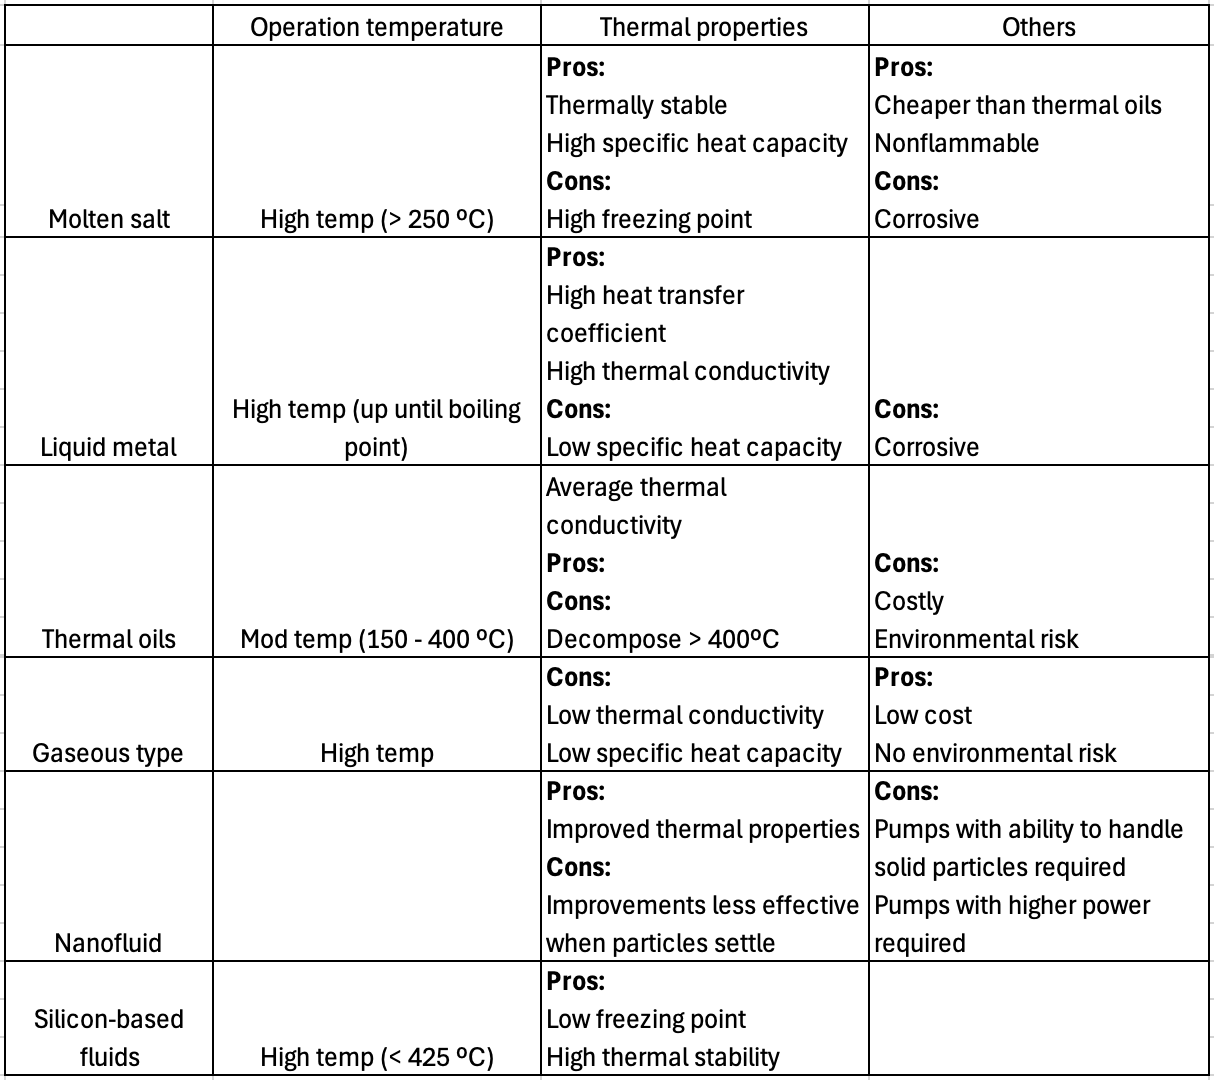
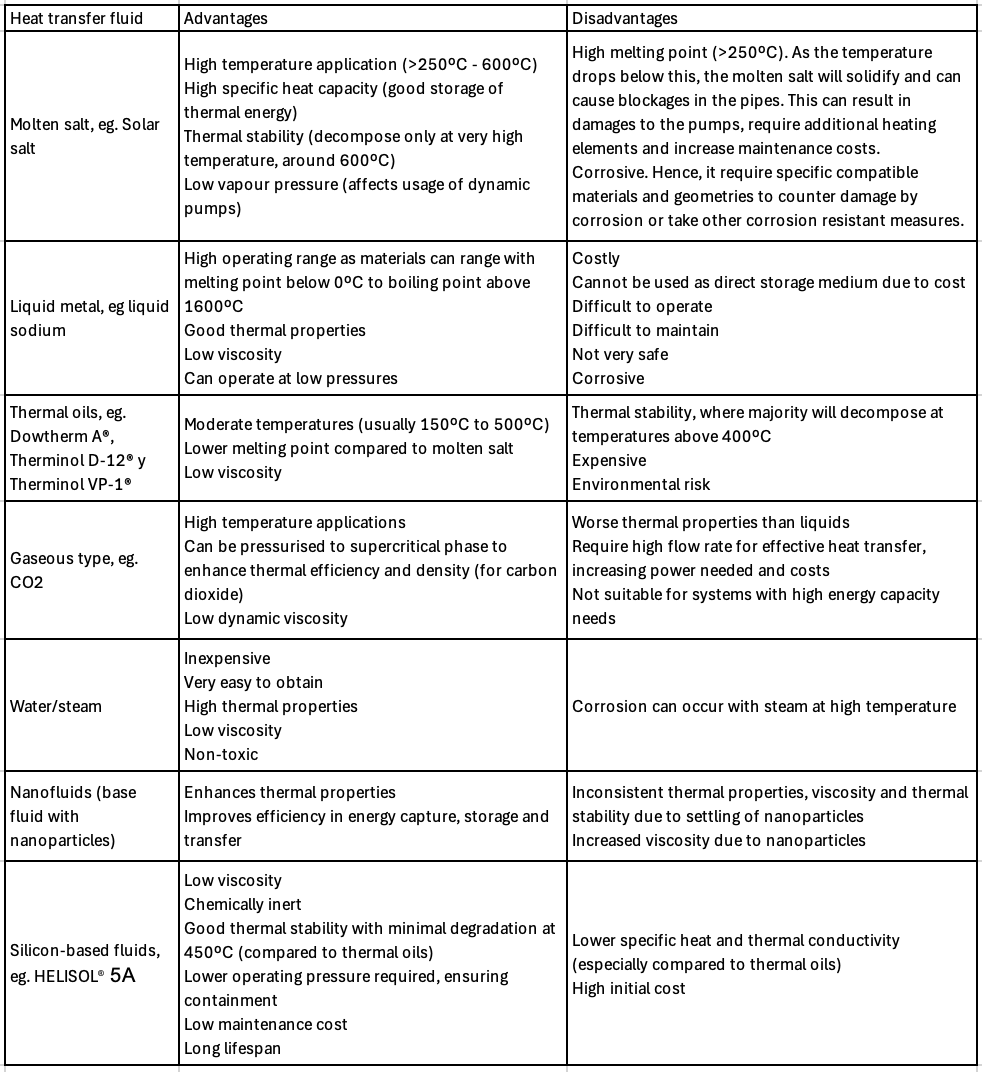
tt

Changed region(s): [[0.0, 0.0, 1.0, 1.0]]

diff --git a/thermaltransmissionsubs.html b/thermaltransmissionsubs.html
@@ -154,7 +154,7 @@
           The common HTFs are molten salt and thermal oils, in high-temperature and moderate-temperature CSPs respectively.[29] Nanofluids and silicon-based fluids are new emerging materials. The comparison of each HTF are summarised below.
         </p>
         <image-component tag="image" source="assets/exm-htm-htm-comparison.png"
-          subtitle="Figure X: HTF comparison [29][31][32][33][34][35]"></image-component> <!-- References: -->
+          subtitle="Figure X: HTF comparison [29][31][32][33][34][35][44][45]"></image-component> <!-- References: -->
         <!-- End of part that can be removed -->
 
         <h3>Heat transfer fluid selection</h3>
@@ -1087,6 +1087,10 @@
         <li>[42] J. Saed, M. Abdunnabi, A. Essnid, and A. Buishi, “New Designed Thermosyphon Solar Water Heater with Small Sized Parabolic Trough Collectors,” Solar Energy and Sustainable Development Journal, vol. 6, no. 2, pp. 30–41, Dec. 2017, doi: https://doi.org/10.51646/jsesd.v6i2.44.</li>
 
         <li>[43] J. Charles and N. V. Velson, “LOOP THERMOSYPHON DESIGN FOR SOLAR THERMAL DESALINATION,” Proceeding of 5-6th Thermal and Fluids Engineering Conference (TFEC), pp. 239–248, Jan. 2021, doi: https://doi.org/10.1615/tfec2021.cmd.036291.</li>
+
+        <li>[44] Falahat, Farah & Gomaa, Mohamed. (2022). A review study on solar tower using different heat transfer fluid. Technology Audit and Production Reserves. 5. 10.15587/2706-5448.2022.267560.</li>
+
+        <li>[45] Heller, Lukas. “Literature Review on Heat Transfer Fluids and Thermal Energy Storage Systems in CSP Plants STERG Report.” (2013).</li>
       </ul>
     </p>
 
